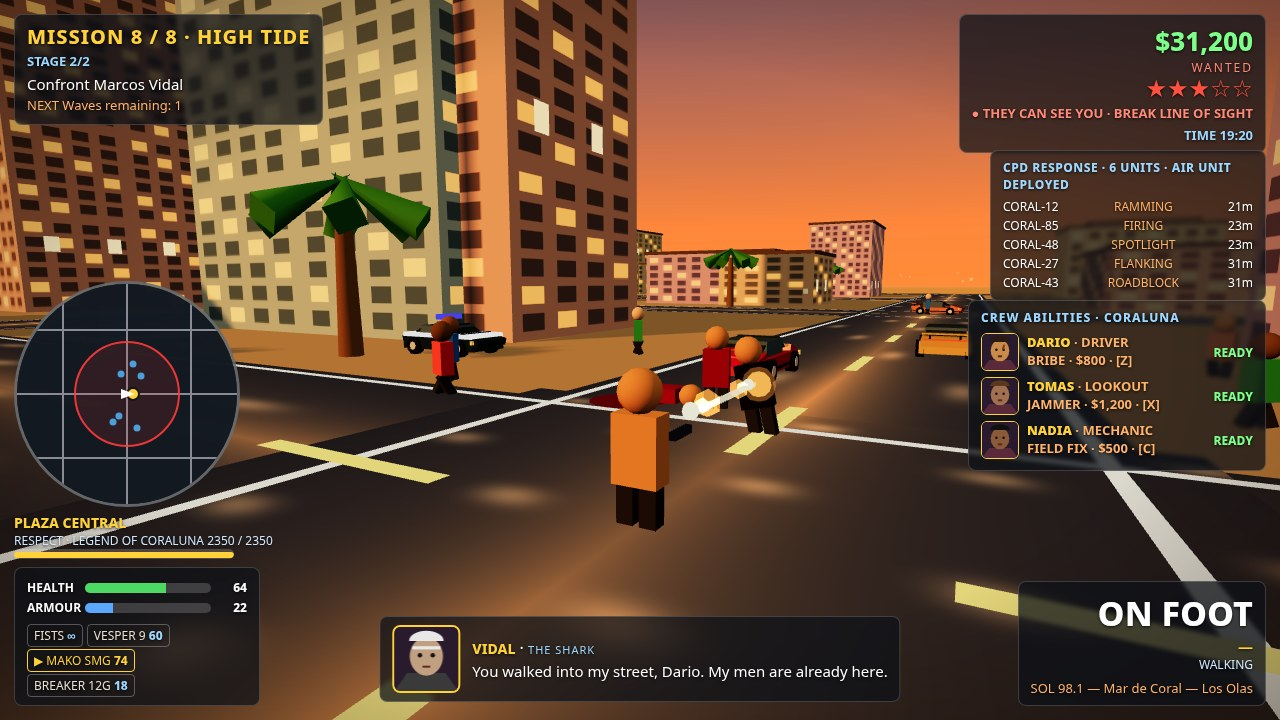
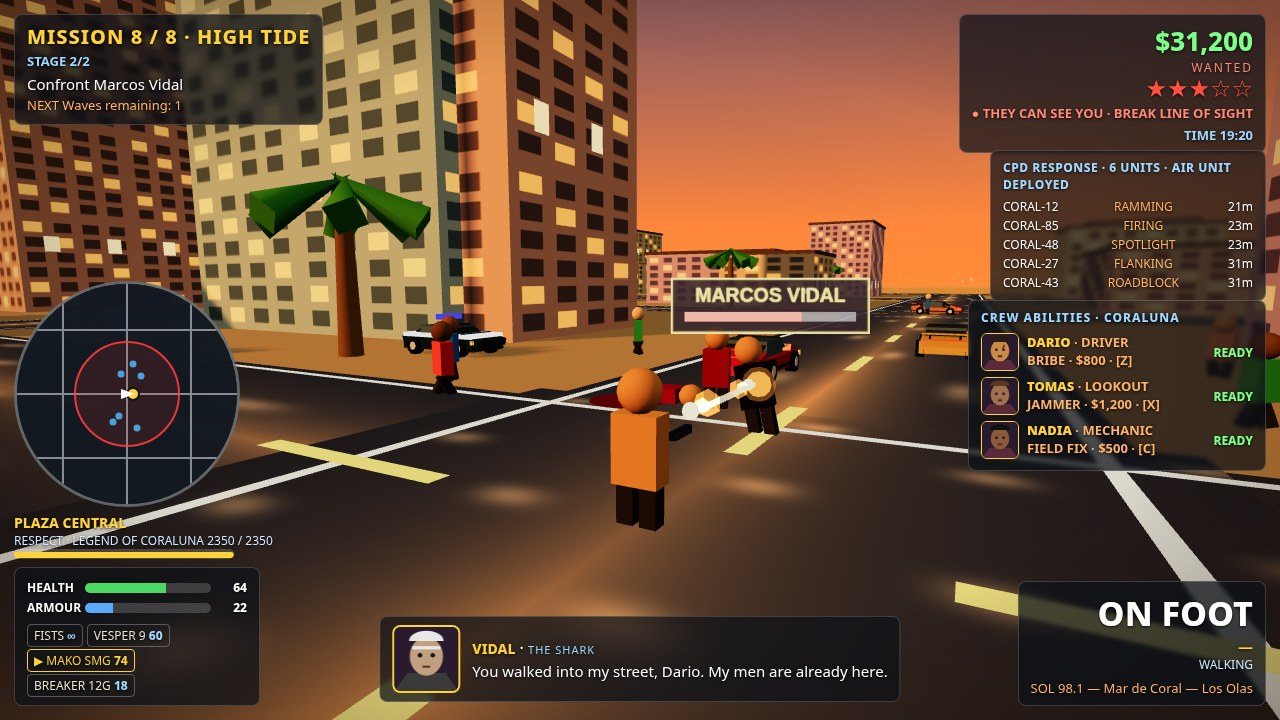
GTA round 7: coast-road cover, Vidal name tag, duplicate pause line removed, README hero bullet fixed

Changed region(s): [[0.5, 0.3667, 0.6875, 0.4889]]

diff --git a/game/src/autotest.js b/game/src/autotest.js
@@ -408,6 +408,34 @@ export function stageShot(game, name) {
     game.scene.add(g);
     return g;
   }
+  function addNameTag(x, y, z, label, health, maxHealth) {
+    // A floating name plate that always faces the camera: gold name on a
+    // dark plate with a red health bar underneath, so the marked fighter
+    // reads at thumbnail size even when the figures are small.
+    const T = game.THREE;
+    const cv = document.createElement('canvas');
+    cv.width = 256; cv.height = 72;
+    const c = cv.getContext('2d');
+    c.fillStyle = 'rgba(12, 8, 10, 0.88)';
+    c.fillRect(0, 0, 256, 72);
+    c.strokeStyle = '#ffd23a';
+    c.lineWidth = 3;
+    c.strokeRect(1, 1, 254, 70);
+    c.fillStyle = '#ffd23a';
+    c.font = 'bold 25px sans-serif';
+    c.textAlign = 'center';
+    c.fillText(label, 128, 31);
+    c.fillStyle = 'rgba(255, 255, 255, 0.25)';
+    c.fillRect(18, 44, 220, 12);
+    c.fillStyle = '#ff5040';
+    c.fillRect(18, 44, 220 * Math.max(0, health / maxHealth), 12);
+    const tex = new T.CanvasTexture(cv);
+    const tag = new T.Sprite(new T.SpriteMaterial({ map: tex, transparent: true, depthWrite: false }));
+    tag.scale.set(4.4, 1.24, 1);
+    tag.position.set(x, y, z);
+    game.scene.add(tag);
+    return tag;
+  }
   function addNightBeams(car) {
     const T = game.THREE;
     const pool = new T.Mesh(new T.CircleGeometry(2.8, 20),
@@ -434,19 +462,30 @@ export function stageShot(game, name) {
     setMission(2, 1, 0);
     const car = playerCar('SOLANO GT', 0xd83a2e);
     p.inCar = car; car.isPlayerCar = true; p.onFoot = false;
-    placeCar(car, -128, -64, 0);
+    // Round 7: the coast road. The westernmost avenue (x = -192) runs the
+    // length of Playa Serena with the beach and the sea just beyond it, so
+    // the car drives south along the water instead of down an inland street.
+    // The sea sits to the car's right, the pier ahead over the bay. The car
+    // stops 18 m short of the pier-gate node, so the staged frame still
+    // shows the Drop in progress instead of completing it on the spot, and
+    // the nearest billboard sits 50 m up the road instead of looming over
+    // the car. The camera is swung a touch toward the water so the sea
+    // fills the right of the frame and the hero car reads three-quarter.
+    placeCar(car, -192, -110, 0);
     car.speed = 23.8;   // 86 km/h: fast, but not rank 1's 111
     p.money = 7400; game.respect = 210;
     p.health = 92; p.armour = 60;
     p.weaponIdx = 1; p.weaponsOwned = [true, true, true, false];
     game.clockMinutes = 17 * 60 + 12;
-    setPolice(3, [[6, 21, 0], [-6, 32, 0], [8, 46, 0],
-      [-9, -22, 0], [11, 60, 0], [-7, 74, 0]], -18, 30, 13);
+    // Police stay on the road: the coast road is only 14 m wide, so every
+    // lateral offset is kept inside the asphalt and off the sand.
+    setPolice(3, [[6, 21, 0], [-5, 32, 0], [8, 46, 0],
+      [-4, -22, 0], [7, 60, 0], [-5, 74, 0]], -18, 30, 13);
     placeTraffic([[2, 28, 0], [-3, 44, 0], [3, 62, 0],
       [-2, 82, Math.PI], [5, 100, 0], [-4, -30, 0]]);
     placePeds([[10, 14], [-11, 30], [10, 44], [-11, 58], [10, 72], [-11, 86]]);
     game.missions.say('ELENA', 'Package is in the boot, Dario. Pier gate, no detours — the CPD is already circling.', game.now);
-    game.camYaw = 0;
+    game.camYaw = -0.25;
   } else if (name === 'chase') {
     game.setNight(true);
     setMission(5, 0, 2);
@@ -524,6 +563,9 @@ export function stageShot(game, name) {
         new T.MeshBasicMaterial({ color: 0xff6a1a, transparent: true, opacity: 0.45 }));
       glow.position.set(boss.x - 0.7, 1.25, boss.z);
       game.scene.add(glow);
+      // Round 7: mark Vidal so the fight reads at a glance — his name and
+      // the health he has left, floating just above his head.
+      addNameTag(boss.x, 2.9, boss.z, 'MARCOS VIDAL', boss.health, 220);
     }
     const before = game.enemies.length;
     game.spawnWave(2);

diff --git a/game/index.html b/game/index.html
@@ -105,7 +105,6 @@
   #pause-map { width: 404px; height: 404px; border-radius: 8px; border: 2px solid rgba(255,255,255,.35);
     background: rgba(12,16,24,.85); display: block; }
   #pause-district { font-size: 14px; font-weight: 800; color: #ffd23a; margin-top: 8px; }
-  .pause-legend { font-size: 12px; color: #cfe8ff; margin-top: 4px; line-height: 1.6; }
   #status { position: absolute; width: 1px; height: 1px; overflow: hidden; clip-path: inset(50%); white-space: nowrap; }
 </style>
 </head>
@@ -185,7 +184,6 @@
       <div class="pause-head">MAP OF CORALUNA · 8 DISTRICTS</div>
       <canvas id="pause-map" width="404" height="404"></canvas>
       <div id="pause-district">PLAZA CENTRAL</div>
-      <div class="pause-legend">WHITE ARROW you &nbsp;·&nbsp; GOLD DIAMOND next objective &nbsp;·&nbsp; BLUE DOTS police &nbsp;·&nbsp; GREEN tick mission done</div>
     </div>
   </div>
   <button id="resume-btn">RESUME</button>

diff --git a/main.ts b/main.ts
@@ -13,6 +13,10 @@
 // finale staging, the brighter night chase, the polished pause map and
 // the unclipped police panel — the code below is unchanged, the game it
 // hands in is the round-6 build.
+// Round 7 hand-in: the same program again, now covering the coast-road
+// cover re-stage, the Vidal name tag in the finale, the deleted duplicate
+// pause line and the cleaned-up README — the code below is unchanged, the
+// game it hands in is the round-7 build.
 //
 // Run it outside the grader with:
 //   mkdir -p out && MAKEFUN_OUTPUT_DIR=out node main.ts

diff --git a/README.md b/README.md
@@ -42,17 +42,9 @@ beacon on the pier.
   crew ability cards for Dario, Nadia and Tomas — Bribe, Jammer and Field Fix,
   each with a portrait, a cash cost and a cooldown — and a time-of-day clock.
 - **Pause / map / progress** — P opens a real pause screen: the eight-mission list with each mission done, next or locked, money and respect, and a full-city map drawn from the 7×7 road lattice and the eight district regions, with the player's position, the objective marker, the route and police dots on it. Short district labels keep every name inside its cell, and a legend key fills the space below the map. A night grade (deep-blue sky, lamps and headlights carrying the frame) stages the night chase.
-- **Hero car** — the player car is a shaped body now, not a box: sloped nose and tail deck, a set-back glass cabin with sloped windscreen, a rear wing, a front grille, hubcapped wheels, headlights with amber indicators and a full-width red taillight bar, in a paint colour that reads at a glance.
-  with crisp 2048px shadows, ACES filmic tone mapping, a subtle vignette, wet
-  asphalt with long golden streak reflections and painted markings, buildings
-  with lit windows from a window-pattern atlas, lamp posts with pools of light,
-  and drifting dust and embers. The hero car wears a clearcoat gloss finish.
-- **Round 6 staging** — the finale is caught mid-fight in Plaza Central: Dario's
-  SMG firing with a muzzle flash and tracer, one of Vidal's men down on the
-  street, Vidal staggering and firing back, health and armour showing the damage
-  taken. The night chase runs a pearl-white AZABACHE GT with headlight beams so
-  the car reads against the dark asphalt. Cover and finale are different scenes:
-  a sea-front drive vs a plaza gunfight.
+- **Hero car** — the player car is a shaped body now, not a box: sloped nose and tail deck, a set-back glass cabin with sloped windscreen, a rear wing, a front grille, hubcapped wheels, headlights with amber indicators and a full-width red taillight bar, in a paint colour that reads at a glance. The hero car wears a clearcoat gloss finish.
+- **Look** — crisp 2048px shadows, ACES filmic tone mapping, a subtle vignette, wet asphalt with long golden streak reflections and painted markings, buildings with lit windows from a window-pattern atlas, lamp posts with pools of light, and drifting dust and embers.
+- **Round 7 staging** — the cover is a sea-front drive down the Playa Serena coast road: water, palms and pedestrians in frame, the red SOLANO GT running south with the helicopter over the bay and the CPD closing in. The finale is caught mid-fight in Plaza Central: Dario's SMG firing with a muzzle flash and tracer, one of Vidal's men down on the street, Vidal staggering and firing back with a name tag and health bar over him, health and armour showing the damage taken. The night chase runs a pearl-white AZABACHE GT with headlight beams so the car reads against the dark asphalt. Cover and finale are different scenes: a sea-front drive vs a plaza gunfight.
 - **Radio** — three procedural WebAudio stations: SOL 98.1 Island Pop,
   MAREA 104.5 Reggae Marea, NOCHE 89.3 Synthwave, plus engine hum, sirens,
   gunshots and crash sounds.
